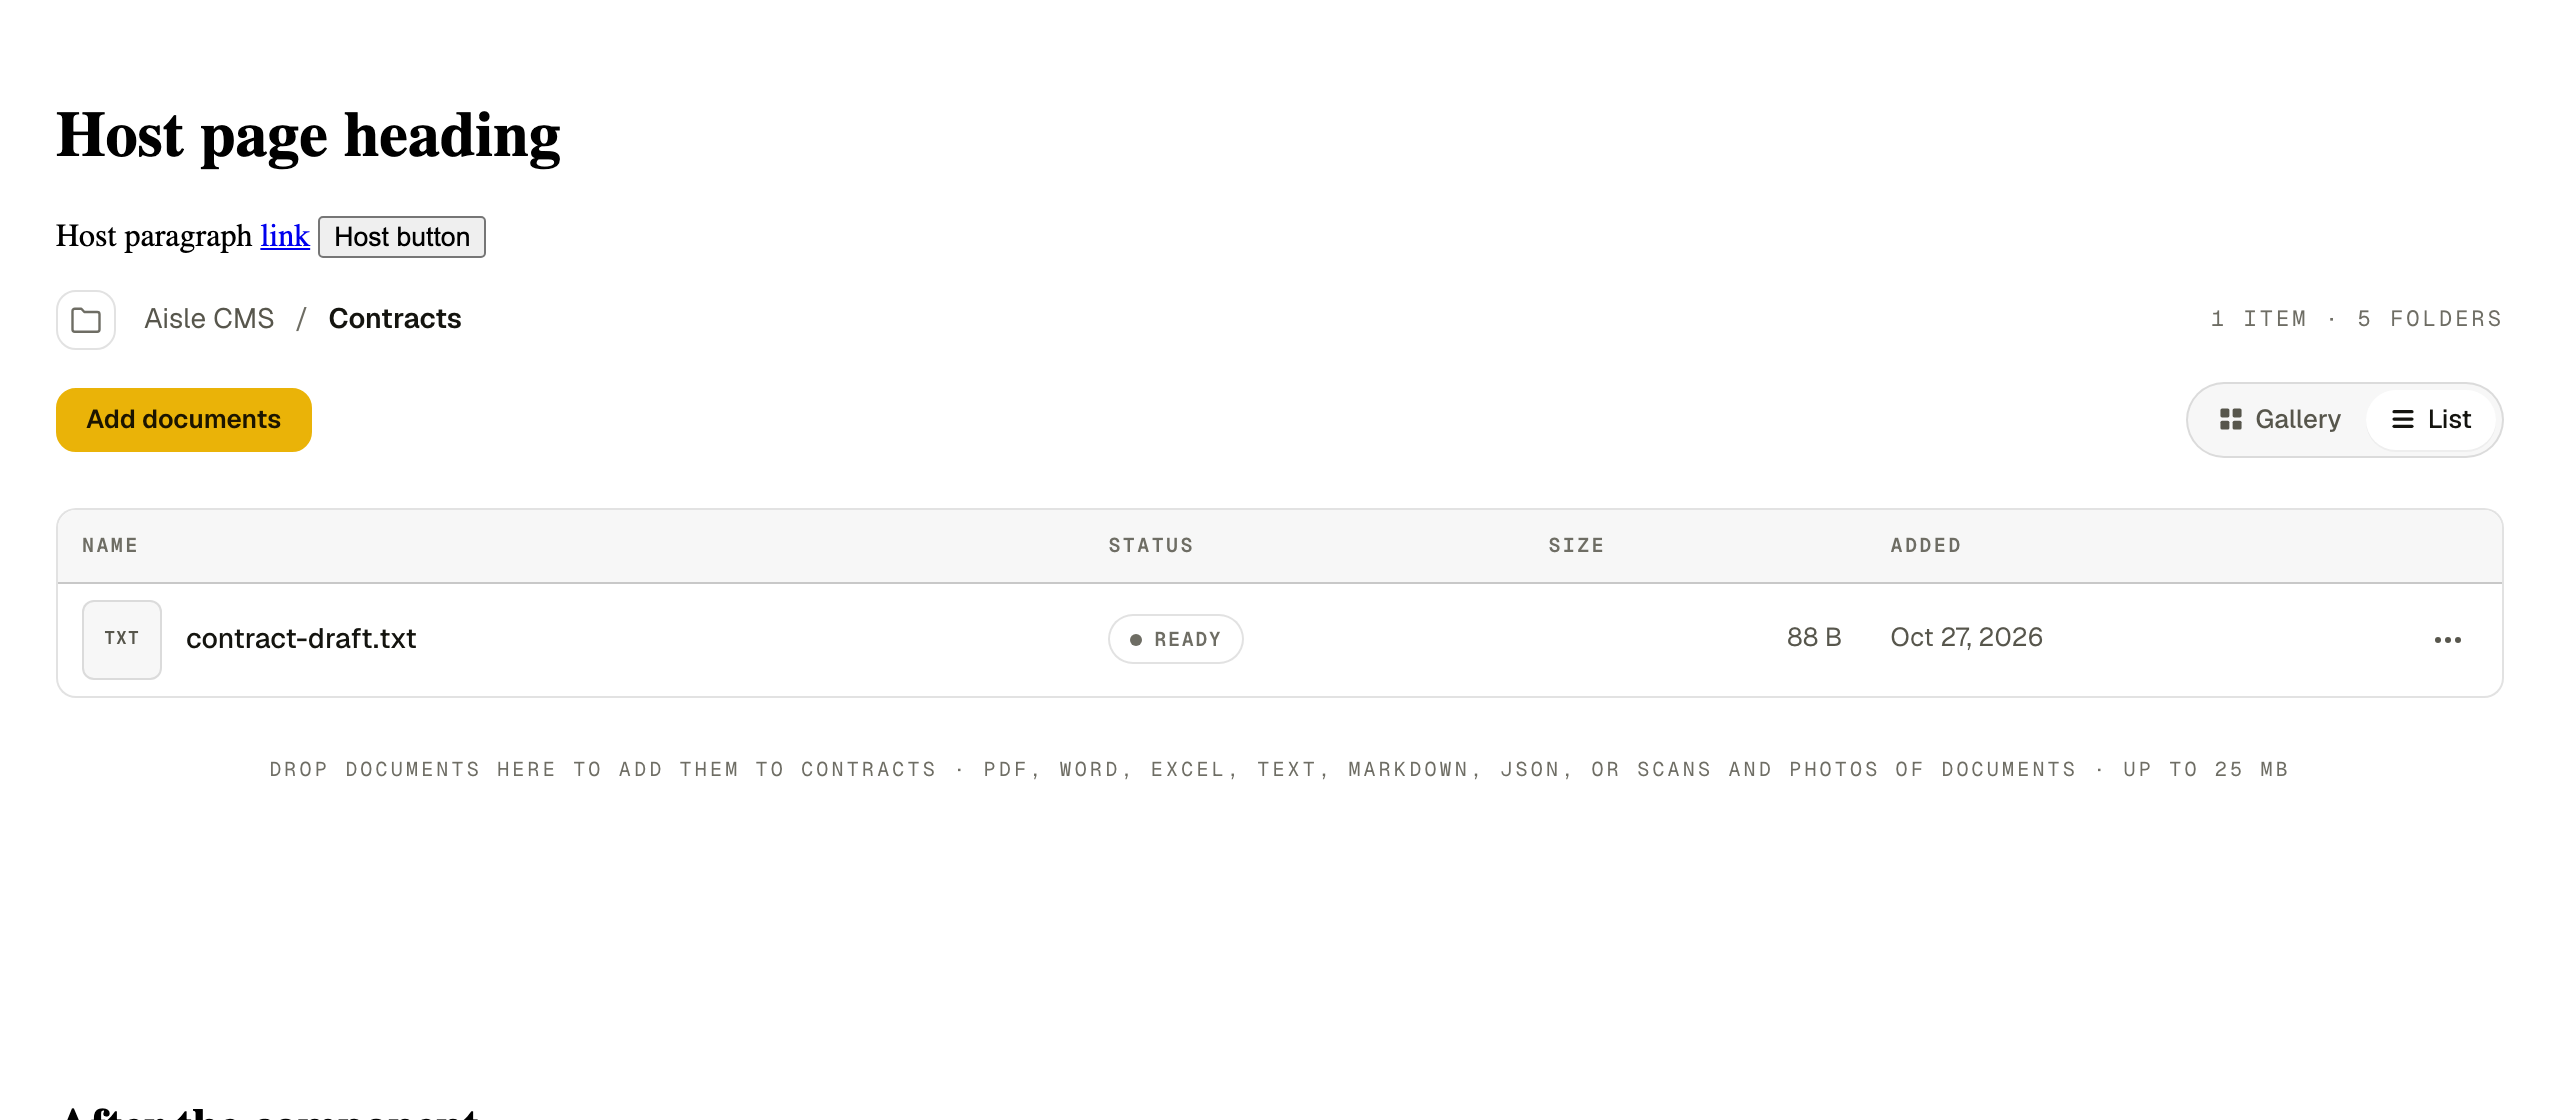
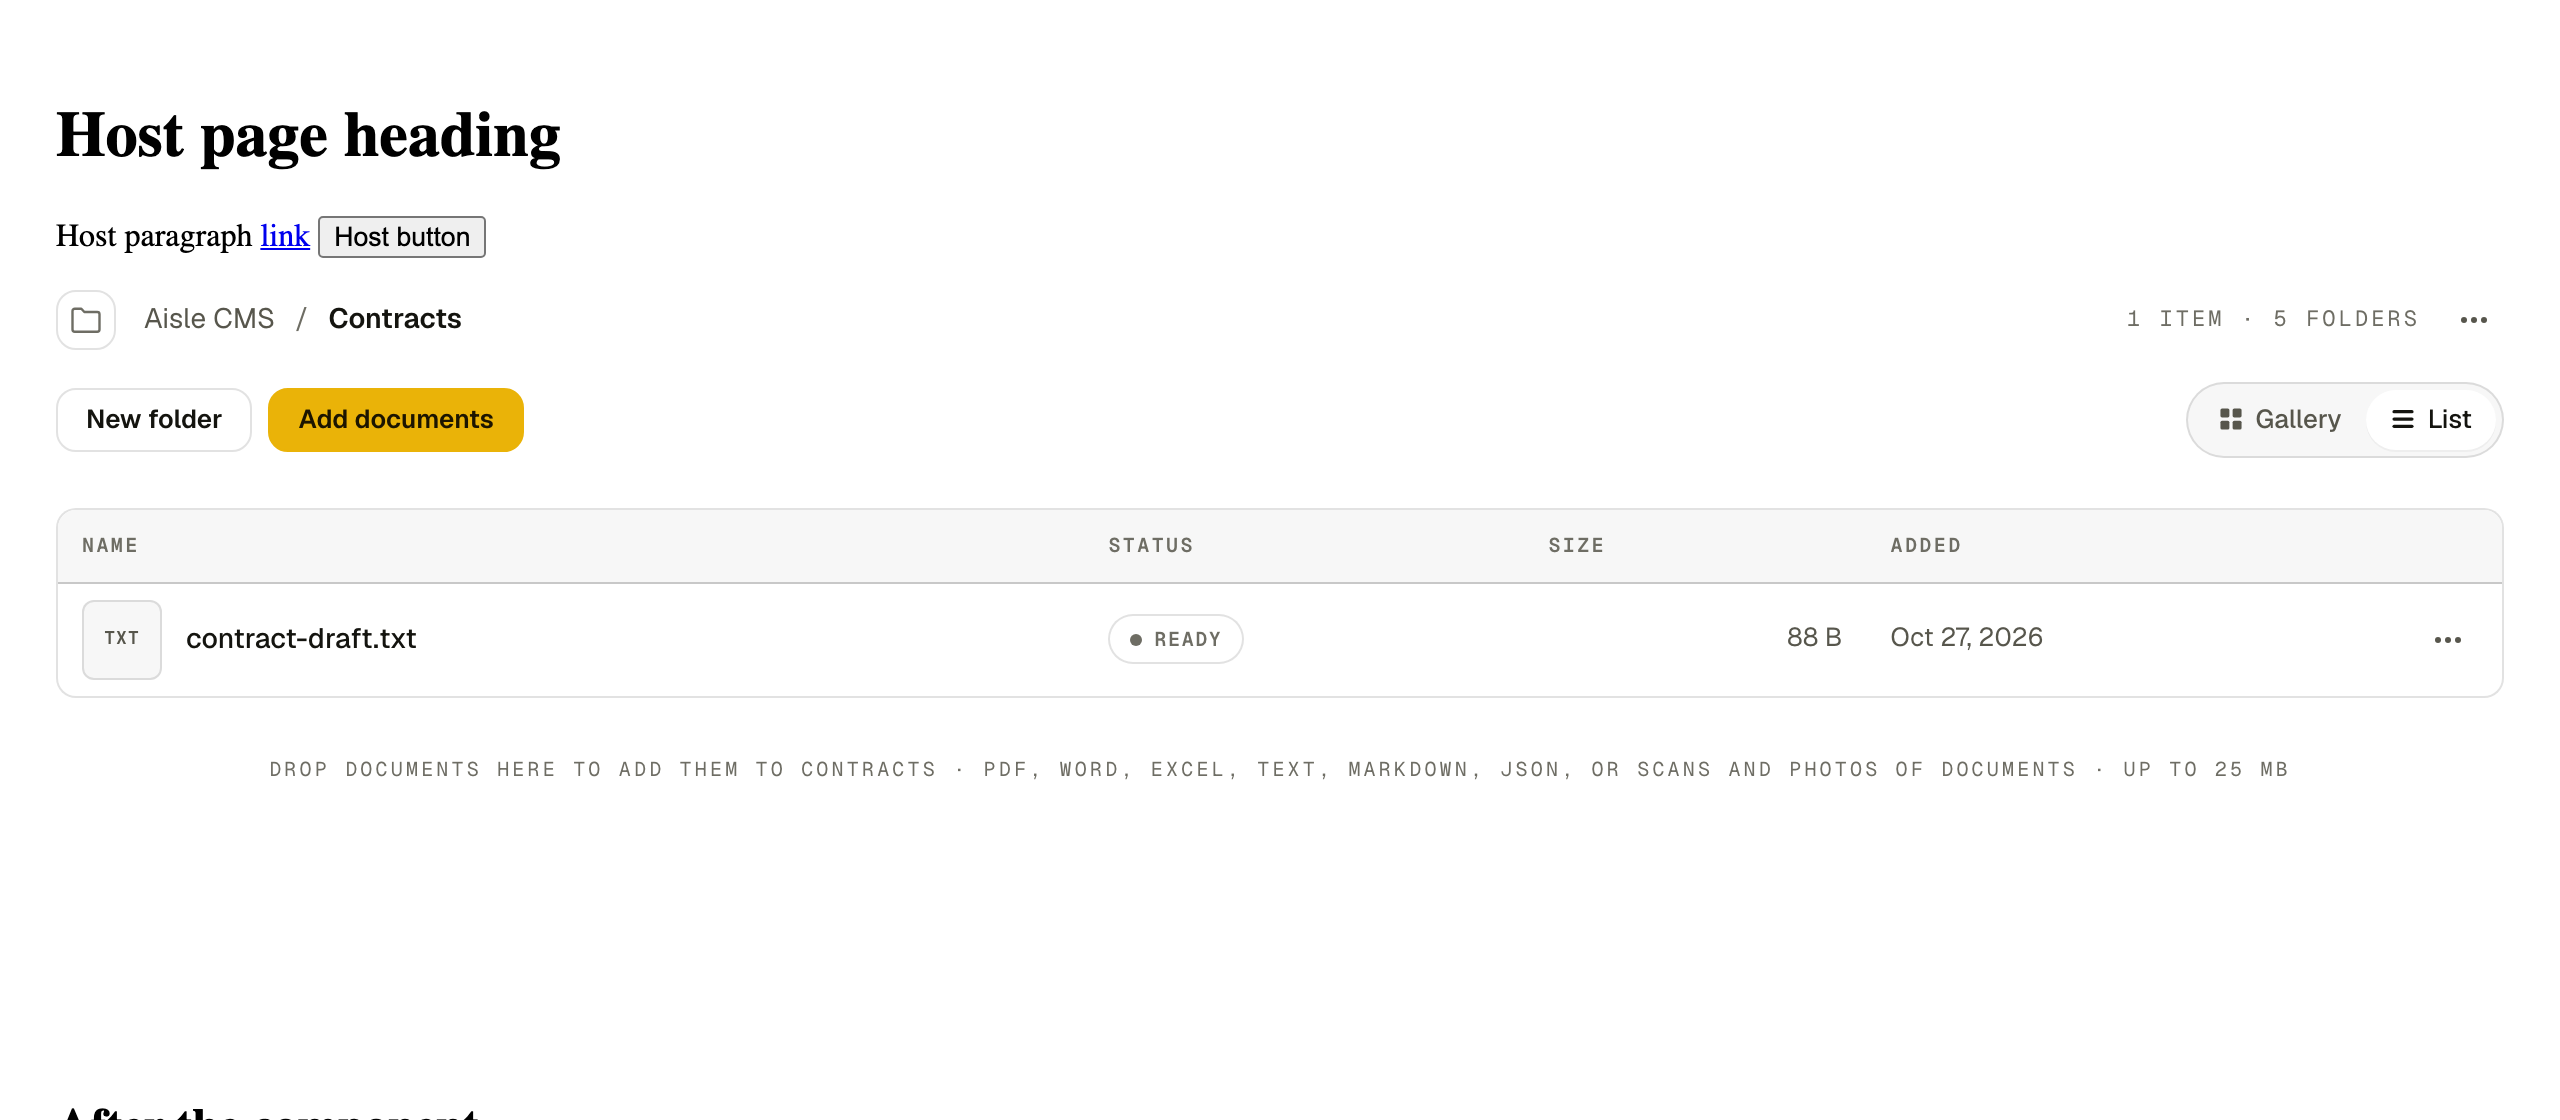
feat(react): folder UI for read_write keys, size budgets, harness folder routes and screenshots (0.4 U8)
Raises the size budgets the folder write UI needs (about 1.3 kB initial), updates the
read_write fragment tests for the New folder button and folder menus, adds folder write
routes to the harness fake api, shoot-folders.mjs and regenerated read_write screenshots.

Changed region(s): [[0.0, 0.3438, 0.2188, 0.4062], [0.875, 0.2812, 0.9688, 0.3125]]

diff --git a/test/entries/folder-components.test.tsx b/test/entries/folder-components.test.tsx
@@ -42,6 +42,8 @@ const RW = 'read_write key: root gallery';
 const sub = { ...FOLDERS[1]!, item_count: 1, total_item_count: 1, sync: 'synced' } as OverlayFolder;
 const root = { ...FOLDERS[0]!, sync: 'synced' } as OverlayFolder;
 const noop = () => undefined;
+// A read_write key's folder cards carry the '⋯' menu (0.4 U8); the read key's do not.
+const acts = () => [{ label: 'Rename', onSelect: noop }];
 
 afterEach(() => {
   cleanup();
@@ -51,17 +53,18 @@ afterEach(() => {
 
 describe.each([READ, RW])('fragment equality with the 0.3 baseline (%s)', (name) => {
   const base = () => snapshot(name);
-  it('FolderCard', () => expect(base()).toContain(nested(<FolderCard folder={sub} itemCount={1} folderCount={0} />)));
+  const rw = name === RW;
+  it('FolderCard', () => expect(base()).toContain(nested(<FolderCard folder={sub} itemCount={1} folderCount={0} {...(rw ? { actions: acts() } : {})} />)));
   it('FolderCard with no actions is the same DOM as an empty list of actions', () => {
     expect(nested(<FolderCard folder={sub} caption="1 item" actions={[]} />)).toBe(nested(<FolderCard folder={sub} caption="1 item" />));
-    expect(base()).toContain(nested(<FolderCard folder={sub} caption="1 item" actions={[]} />));
+    if (!rw) expect(base()).toContain(nested(<FolderCard folder={sub} caption="1 item" actions={[]} />));
   });
-  it('FolderGrid (records)', () => expect(base()).toContain(nested(<FolderGrid folders={[sub]} onOpenFolder={noop} />)));
+  it('FolderGrid (records)', () => expect(base()).toContain(nested(<FolderGrid folders={[sub]} onOpenFolder={noop} {...(rw ? { folderActions: acts } : {})} />)));
   it('FolderHeader (crumbs)', () =>
     expect(base()).toContain(nested(<FolderHeader crumbs={[{ id: 'root', name: 'Aisle CMS' }]} onNavigate={noop} meta="3 items · 2 folders" />)));
   it('FolderToolbar', () => {
     const canWrite = name === RW;
-    expect(base()).toContain(nested(<FolderToolbar canWrite={canWrite} onAddFiles={noop} adding={false} layout="grid" onLayoutChange={noop} />));
+    expect(base()).toContain(nested(<FolderToolbar canWrite={canWrite} {...(canWrite ? { onNewFolder: noop } : {})} onAddFiles={noop} adding={false} layout="grid" onLayoutChange={noop} />));
   });
   it('ViewToggle', () => expect(base()).toContain(nested(<ViewToggle value="grid" onChange={noop} />)));
 });
@@ -88,7 +91,7 @@ describe('fragment equality, other snapshots', () => {
         hint={<p className={cx('dropzone-limits', 'shelf-dropzone-hint')}>Drop documents here to add them to Aisle CMS · {UPLOAD_LIMITS}</p>}
       >
         <h2 className={cx('kicker', 'shelf-section-label')}>Folders</h2>
-        <FolderGrid folders={[sub]} onOpenFolder={noop} />
+        <FolderGrid folders={[sub]} onOpenFolder={noop} folderActions={acts} />
       </UploadDropzone>,
     );
     expect(snapshot('read_write key: empty folder')).toContain(fragment);

diff --git a/test/realShapes.test.tsx b/test/realShapes.test.tsx
@@ -75,7 +75,7 @@ describe('real API shapes', () => {
     expect(text(row.querySelector('.shelf-sdk__breadcrumb'))).toBe('Aisle CMS');
     await waitFor(() => expect(text(row.querySelector('.shelf-sdk__shelf-crumbs-aside .shelf-sdk__file-count'))).toBe('1 item · 5 folders'));
 
-    // toolbar: Add documents (read_write), Gallery | List; no New folder (the API cannot create folders)
+    // toolbar: Add documents (read_write), Gallery | List; New folder (read_write)
     const bar = container.querySelector('.shelf-sdk__shelf-toolbar')!;
     await waitFor(() => expect(Array.from(bar.querySelectorAll(':scope > button')).map(text)).toEqual(['New folder', 'Add documents'])); // arrives with the lazy outbox chunk
     expect(bar.querySelector('button.shelf-sdk__btn.shelf-sdk__btn--accent.shelf-sdk__btn--sm')).toBeTruthy();
@@ -95,7 +95,7 @@ describe('real API shapes', () => {
     ]);
     for (const t of tiles) {
       expect(t.querySelector('svg.shelf-sdk__folder-icon')).toBeTruthy();
-      expect(t.querySelector('.shelf-sdk__action-menu')).toBeNull(); // folder rename/move/delete are not in the integration API
+      expect(t.querySelector('.shelf-sdk__action-menu')).toBeTruthy(); // a read_write key can rename, move and delete subfolders (0.4 U8)
     }
     // no documents of its own: no DOCUMENTS section
     expect(container.querySelector('.shelf-sdk__file-grid')).toBeNull();

diff --git a/test/entries/document-list.test.tsx b/test/entries/document-list.test.tsx
@@ -32,7 +32,7 @@ afterEach(() => {
 describe('DocumentList', () => {
   for (const [label, key, extra] of [
     ['read key', 'read key: list layout', {}],
-    ['read_write key', 'read_write key: list layout', { canWrite: true, onAction: noop }],
+    ['read_write key', 'read_write key: list layout', { canWrite: true, onAction: noop, folderActions: () => [{ label: 'Rename', onSelect: noop }] }],
   ] as const) {
     it(`draws the 0.3 list fragment byte for byte (${label})`, async () => {
       const { container } = render(<DocumentList client={mock()} items={docs} folders={folders} folderCaption={caption} onOpenFolder={noop} onOpen={noop} {...extra} />);
